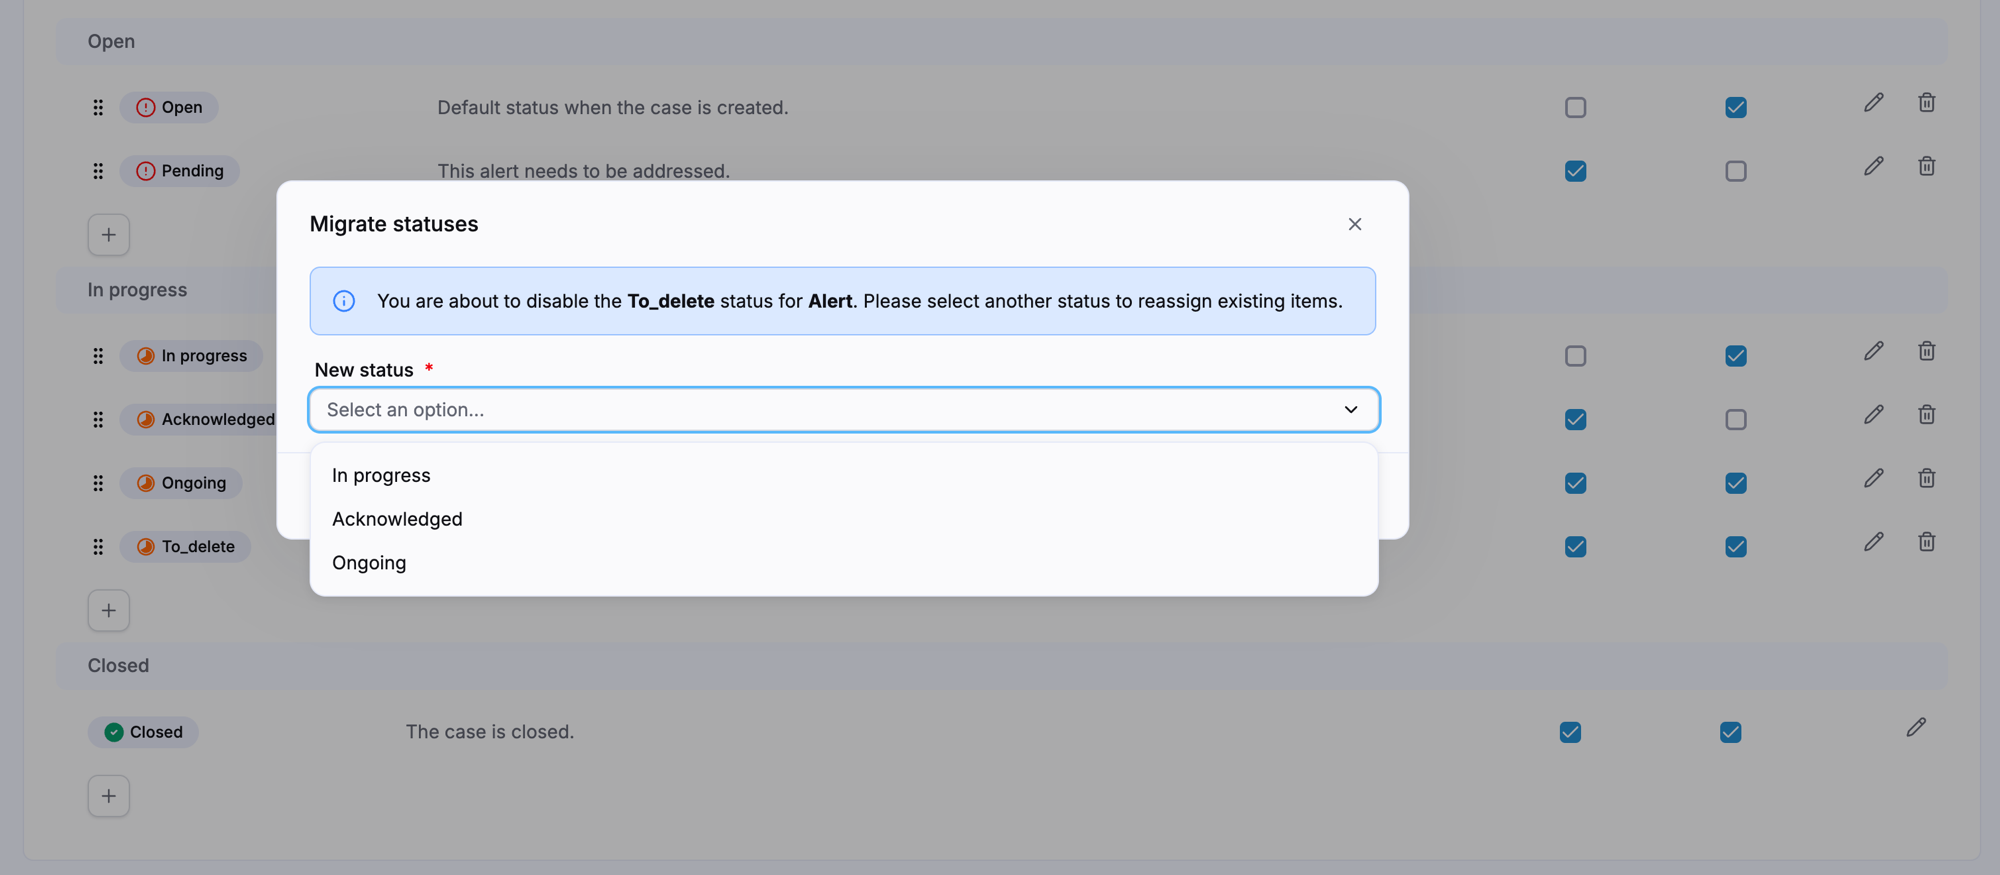
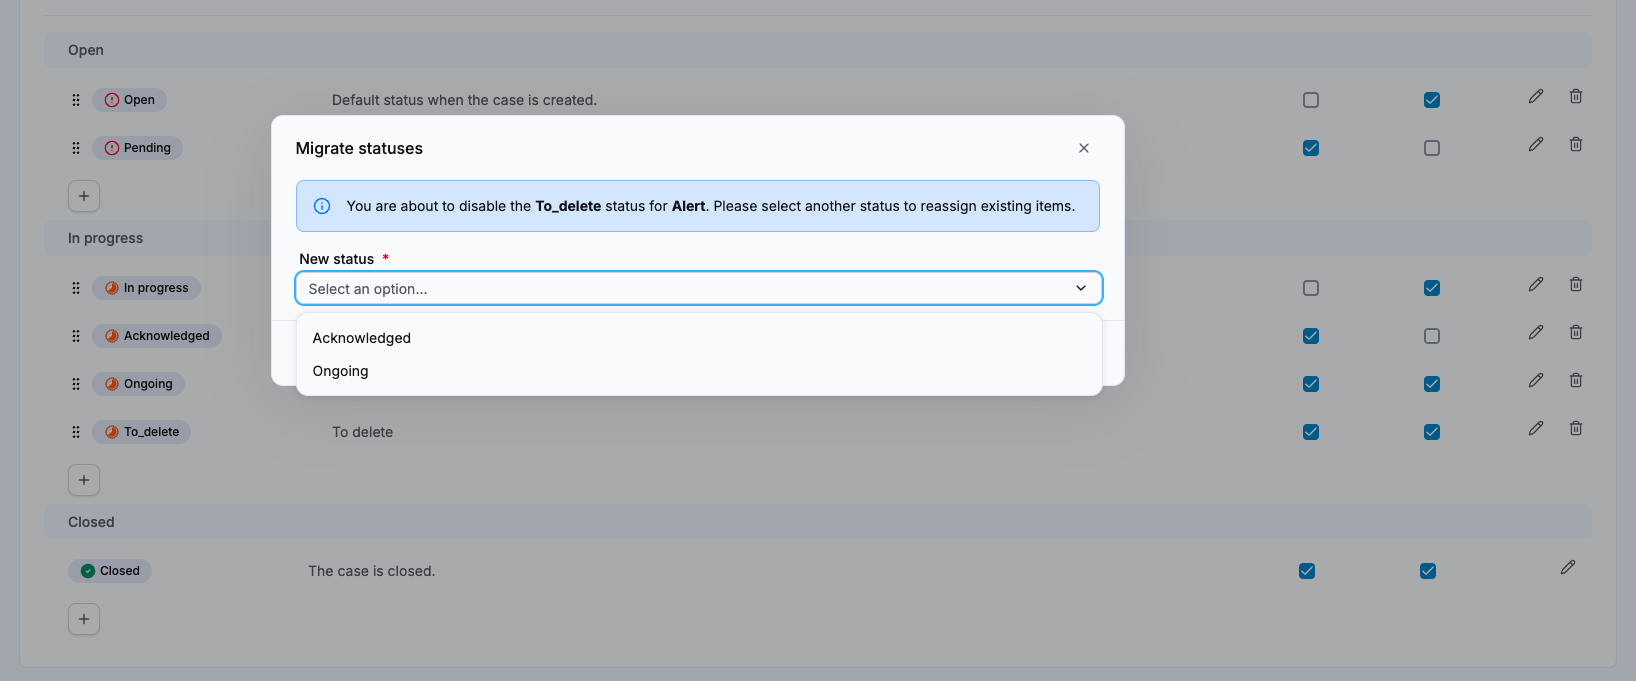
Address PR feedbacks

diff --git a/docs/xdr/features/investigate/custom_verdicts.md b/docs/xdr/features/investigate/custom_verdicts.md
@@ -2,6 +2,8 @@
 
 Custom verdicts let your SOC team classify the outcome of an investigation with its own vocabulary, beyond a bare true positive or false positive. You configure them in **Settings > Custom Statuses**, under the analyst verdict section, and they apply to alerts and cases alike.
 
+Teams rarely agree on what "true positive" means in practice, and the nuance matters when analysts hand work to each other or report to stakeholders. Custom verdicts capture that nuance, for example "True positive: confirmed malware", "False positive: misconfiguration" or "True positive: policy violation".
+
 ## Verdict categories
 
 Every custom verdict belongs to one of two categories.
@@ -11,8 +13,6 @@ Every custom verdict belongs to one of two categories.
 | **True positive** | The alert or case represents a genuine security threat or incident. |
 | **False positive** | The alert or case was triggered incorrectly, or does not represent a real threat. |
 
-Teams rarely agree on what "true positive" means in practice, and the nuance matters when analysts hand work to each other or report to stakeholders. Custom verdicts capture that nuance, for example "True positive: confirmed malware", "False positive: misconfiguration" or "True positive: policy violation".
-
 ## Create a custom verdict
 
 1. Navigate to **Settings > Custom Statuses**.
@@ -20,6 +20,12 @@ Teams rarely agree on what "true positive" means in practice, and the nuance mat
 3. Enter a **Name**, for example "Confirmed malware", "Benign activity" or "Policy violation".
 4. Enter a **Description** explaining when your team should use this verdict and what it signifies.
 5. Save your changes.
+
+!!! tip "Write the description, not just the name"
+    A documented definition is what stops two analysts from classifying the same evidence differently. The description is also what the Elevate AI agents read when they select the verdict that fits an alert.
+
+!!! warning "Verdicts do not offer a migration"
+    Custom statuses are the only type that can be retired while in use. Verdicts and priorities cannot: you have to clear the verdict from every alert and case before you can delete it. See [Migrate custom statuses](/xdr/features/investigate/migrate_custom_statuses.md) for the status behavior.
 
 ![Custom verdicts configuration](/assets/operation_center/alerts/custom-verdicts-config.png){: style="max-width:100%"}
 
@@ -35,12 +41,6 @@ A verdict can be deleted only if no alert and no case currently carries it.
 
 1. Change or remove the verdict on every alert and case that uses it.
 2. Once the verdict is no longer in use, delete it from **Settings > Custom Statuses**.
-
-!!! warning "Verdicts do not offer a migration"
-    Custom statuses are the only type that can be retired while in use. Verdicts and priorities cannot: you have to clear the verdict from every alert and case before you can delete it. See [Migrate custom statuses](/xdr/features/investigate/migrate_custom_statuses.md) for the status behavior.
-
-!!! tip "Write the description, not just the name"
-    A documented definition is what stops two analysts from classifying the same evidence differently. The description is also what the Elevate AI agents read when they select the verdict that fits an alert.
 
 ## Related articles
 

diff --git a/docs/xdr/features/investigate/custom_priorities.md b/docs/xdr/features/investigate/custom_priorities.md
@@ -6,8 +6,6 @@ Custom priorities define how urgent a case is, using the levels and the vocabula
 
 ## Default priorities
 
-A workspace starts with four levels.
-
 | Priority | Description |
 |---|---|
 | **Critical** | The case is critical |
@@ -32,6 +30,9 @@ To reorder priorities, drag a level by its handle and drop it where you want it.
 5. Select a color.
 6. Click **Save**.
 
+!!! warning "Priorities have no migration flow"
+    Unlike custom statuses, a priority that is in use cannot be deleted by reassigning its cases to another priority. You have to change the priority on every case first. Only statuses offer the reassignment described in [Migrate custom statuses](/xdr/features/investigate/migrate_custom_statuses.md).
+
 ## Edit a custom priority
 
 Editing happens inline on the priority row.
@@ -49,13 +50,7 @@ The color you pick is the one analysts see on the priority badge in the cases li
 A priority can be deleted only if no case currently carries it.
 
 1. Change the priority on every case that uses it.
-2. Once the priority is no longer in use, click the delete icon on the priority row.
-
-!!! warning "Priorities have no migration flow"
-    Unlike custom statuses, a priority that is in use cannot be deleted by reassigning its cases to another priority. You have to change the priority on every case first. Only statuses offer the reassignment described in [Migrate custom statuses](/xdr/features/investigate/migrate_custom_statuses.md).
-
-!!! note "AI Cases follow your scale"
-    AI Cases assign a priority by mapping the highest alert urgency in the case onto the levels you have configured. The scale adapts to your setup, so adding or removing a level changes how AI Cases distribute priorities across your cases.
+2. Once the priority is no longer in use, in Settings > Custom Statuses > Priority section, click the delete icon on the priority row.
 
 ## Where priorities appear
 

diff --git a/docs/xdr/features/investigate/migrate_custom_statuses.md b/docs/xdr/features/investigate/migrate_custom_statuses.md
@@ -7,7 +7,7 @@ You retire a status in two ways, and both go through the same migration:
 * **Disabling** it for alerts or for cases removes it from that context only. The status stays available in the other context.
 * **Deleting** it removes the status from your workspace entirely.
 
-The **New status** list offers the statuses that belong to the same stage as the one you are retiring. A status in the In progress stage is therefore replaced by another In progress status, which keeps your alerts and cases at the same point of the lifecycle and preserves the behavior that depends on the stage, such as alert similarity and case editing.
+The **New status** list offers the statuses that belong to the same stage as the one you are retiring. A status in the **In progress** stage is therefore replaced by another **In progress** status, which keeps your alerts and cases at the same point of the lifecycle and preserves the behavior that depends on the stage, such as alert similarity and case editing.
 
 !!! note "A replacement status is mandatory"
     An alert or a case always carries a status, so there is no way to retire a status without saying where its items should go. The **New status** field is required in both flows.

diff --git a/docs/xdr/features/investigate/custom_statuses.md b/docs/xdr/features/investigate/custom_statuses.md
@@ -14,7 +14,8 @@ Every custom status belongs to one of three stages. The stage defines where the 
 | **In progress** | Intermediate stage for items under investigation or awaiting action. |
 | **Closed** | Final stage for items that have been resolved or dismissed. |
 
-Stages are not cosmetic. They determine the overall state of an alert or a case, and features such as search filters, alert similarity and case editing rely on them. Alerts whose status is in the Open or In progress stage keep collecting similar occurrences, while a status in the Closed stage causes a new alert to be created instead. Cases in the Closed stage cannot be edited.
+!!! info
+    Stages are not cosmetic. They determine the overall state of an alert or a case, and features such as search filters, alert similarity and case editing rely on them. Alerts whose status is in the Open or In progress stage keep collecting similar occurrences, while a status in the Closed stage causes a new alert to be created instead. Cases in the Closed stage cannot be edited.
 
 ## One status, two contexts
 
